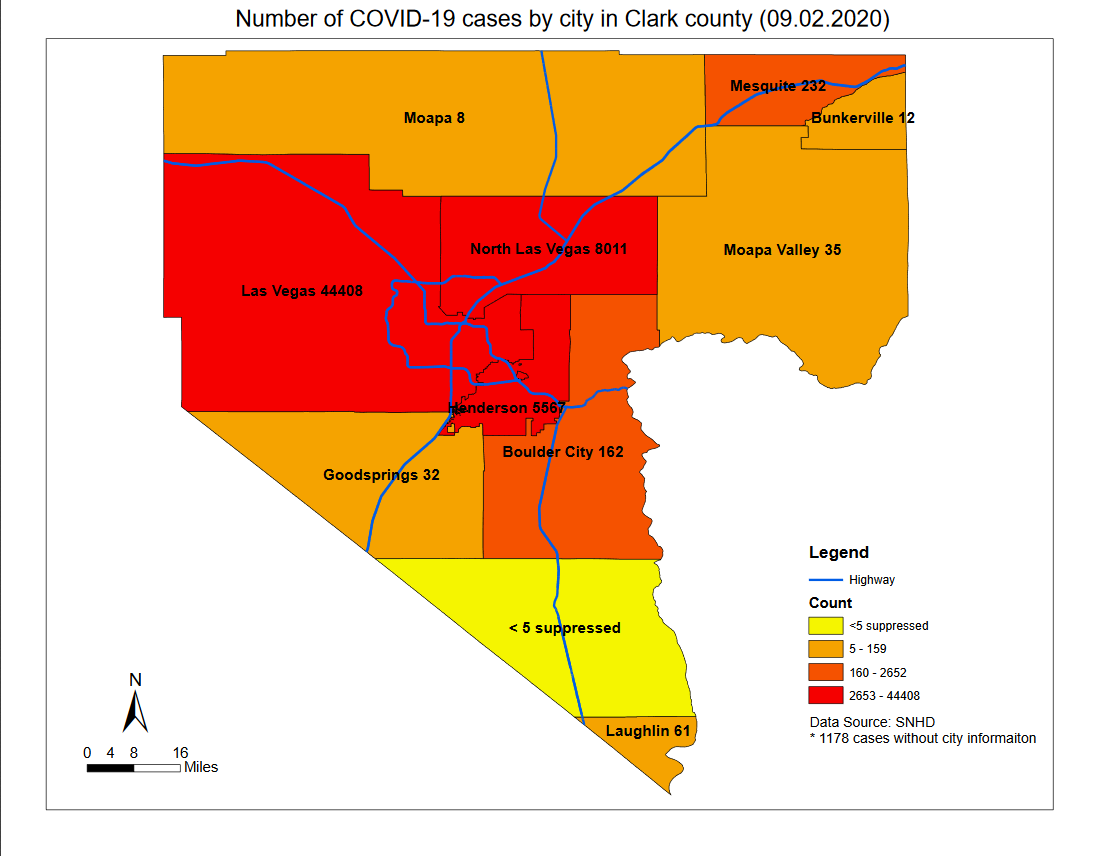
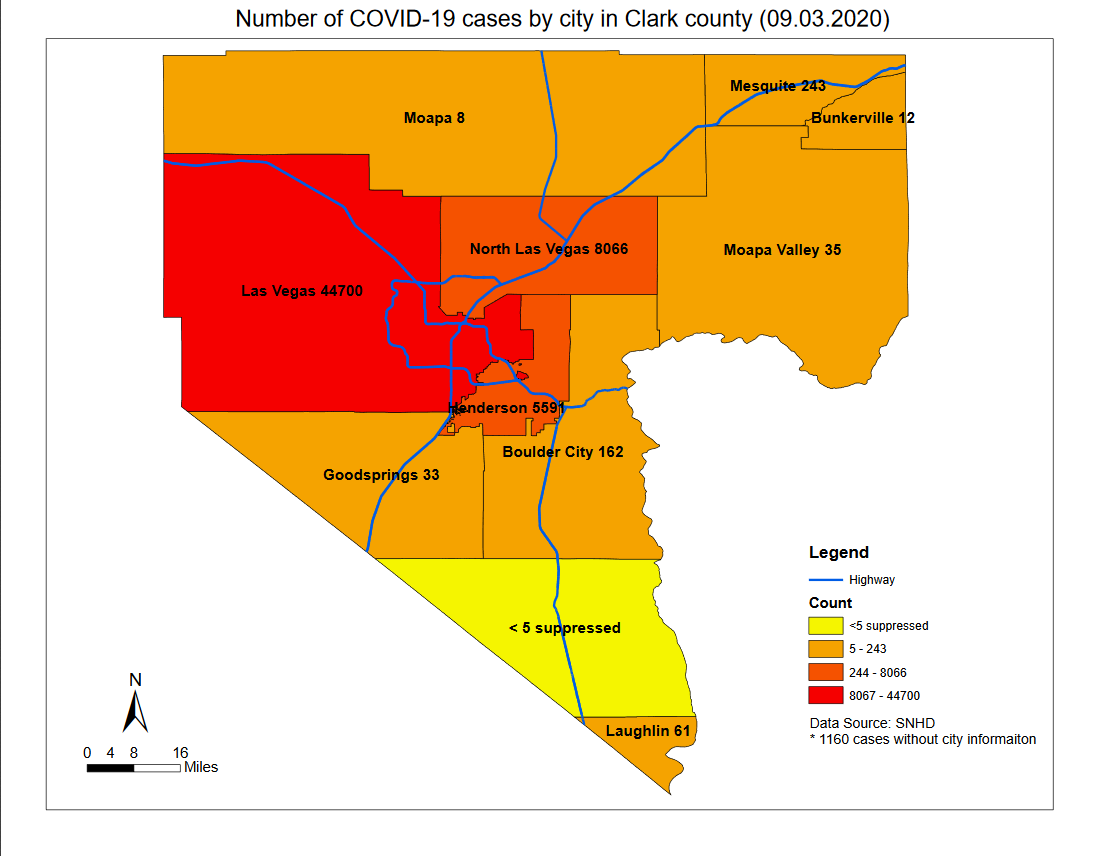
Day 184

diff --git a/src/pages/clarkcounty.js b/src/pages/clarkcounty.js
@@ -199,6 +199,7 @@ class ClarkPage extends Component {
 				'8/31/20',
 				'9/01/20',
 				'9/02/20',
+				'9/03/20',
 			],
 			datasets: [
 				{
@@ -388,6 +389,7 @@ class ClarkPage extends Component {
 						59716,
 						59857,
 						60144,
+						60514,
 					],
 				},
 			],
@@ -578,6 +580,7 @@ class ClarkPage extends Component {
 				'8/31/20',
 				'9/01/20',
 				'9/02/20',
+				'9/03/20',
 			],
 			datasets: [
 				{
@@ -767,6 +770,7 @@ class ClarkPage extends Component {
 						296,
 						141,
 						287,
+						370,
 					],
 				},
 			],
@@ -937,6 +941,7 @@ class ClarkPage extends Component {
 				'8/31/20',
 				'9/01/20',
 				'9/02/20',
+				'9/03/20',
 			],
 			datasets: [
 				{
@@ -1106,6 +1111,7 @@ class ClarkPage extends Component {
 						4865,
 						4978,
 						5078,
+						5143,
 					],
 				},
 			],
@@ -1275,6 +1281,7 @@ class ClarkPage extends Component {
 				'8/31/20',
 				'9/01/20',
 				'9/02/20',
+				'9/03/20',
 			],
 			datasets: [
 				{
@@ -1444,6 +1451,7 @@ class ClarkPage extends Component {
 						118,
 						113,
 						100,
+						65,
 					],
 				},
 			],
@@ -1634,6 +1642,7 @@ class ClarkPage extends Component {
 				'8/31/20',
 				'9/01/20',
 				'9/02/20',
+				'9/03/20',
 			],
 			datasets: [
 				{
@@ -1822,6 +1831,7 @@ class ClarkPage extends Component {
 						1134,
 						1157,
 						1181,
+						1190,
 					],
 					backgroundColor: 'maroon',
 				},
@@ -2001,6 +2011,7 @@ class ClarkPage extends Component {
 				'8/31/20',
 				'9/01/20',
 				'9/02/20',
+				'9/03/20',
 			],
 			datasets: [
 				{
@@ -2178,6 +2189,7 @@ class ClarkPage extends Component {
 						8,
 						23,
 						24,
+						9,
 					],
 				},
 			],
@@ -2368,6 +2380,7 @@ class ClarkPage extends Component {
 				'8/31/20',
 				'9/01/20',
 				'9/02/20',
+				'9/03/20',
 			],
 			datasets: [
 				{
@@ -2556,6 +2569,7 @@ class ClarkPage extends Component {
 						12.0,
 						11.6,
 						10.7,
+						10.3,
 						null,
 						null,
 						null,
@@ -2634,6 +2648,7 @@ class ClarkPage extends Component {
 						null,
 						null,
 						null,
+						6.9,
 						6.9,
 						6.9,
 						6.9,
@@ -2944,6 +2959,7 @@ class ClarkPage extends Component {
 						3.9,
 						3.9,
 						3.9,
+						3.9,
 					],
 				},
 			],
@@ -2954,7 +2970,7 @@ class ClarkPage extends Component {
 			datasets: [
 				{
 					label: 'Age of Cases',
-					data: [1213, 4603, 7744, 28932, 11630, 6006],
+					data: [1221, 4640, 7792, 29115, 11686, 6044],
 					backgroundColor: [
 						'rgb(54, 162, 235)', //blue
 						'rgb(255, 99, 132)', //salmon
@@ -2972,7 +2988,7 @@ class ClarkPage extends Component {
 			datasets: [
 				{
 					label: 'Sex',
-					data: [30742, 29003, 399],
+					data: [30922, 29194, 395],
 					backgroundColor: [
 						'rgb(255, 99, 132)',
 						'rgb(54, 162, 235)',
@@ -3014,8 +3030,8 @@ class ClarkPage extends Component {
 											</div>
 										</div>
 										<div className='card-value pt-4'>
-											<h1>60,144</h1>
-											<h2 className='is_salmon'>+ 287</h2>
+											<h1>60,514</h1>
+											<h2 className='is_salmon'>+ 370</h2>
 										</div>
 									</div>
 								</div>
@@ -3027,8 +3043,8 @@ class ClarkPage extends Component {
 											</div>
 										</div>
 										<div className='card-value pt-4'>
-											<h1>5,078</h1>
-											<h2 className='is_salmon'>+ 100</h2>
+											<h1>5,143</h1>
+											<h2 className='is_salmon'>+ 65</h2>
 										</div>
 									</div>
 								</div>
@@ -3040,8 +3056,8 @@ class ClarkPage extends Component {
 											</div>
 										</div>
 										<div className='card-value pt-4'>
-											<h1>91.2%</h1>
-											<h2 className='is_salmon'>+ 0.3%</h2>
+											<h1>91.4%</h1>
+											<h2 className='is_salmon'>+ 0.2%</h2>
 										</div>
 									</div>
 								</div>
@@ -3053,8 +3069,8 @@ class ClarkPage extends Component {
 											</div>
 										</div>
 										<div className='card-value pt-4'>
-											<h1>1,181</h1>
-											<h2 className='is_salmon'>+ 24</h2>
+											<h1>1,190</h1>
+											<h2 className='is_salmon'>+ 9</h2>
 										</div>
 									</div>
 								</div>

diff --git a/src/pages/nevada.js b/src/pages/nevada.js
@@ -194,6 +194,7 @@ class NevadaPage extends Component {
 				'8/31/20',
 				'9/01/20',
 				'9/02/20',
+				'9/03/20',
 			],
 			datasets: [
 				{
@@ -382,6 +383,7 @@ class NevadaPage extends Component {
 						69633,
 						69872,
 						70223,
+						70712,
 					],
 					fill: false, // Don't fill area under the line
 					backgroundColor: '#933A16', // Line color
@@ -573,6 +575,7 @@ class NevadaPage extends Component {
 				'8/31/20',
 				'9/01/20',
 				'9/02/20',
+				'9/03/20',
 			],
 			datasets: [
 				{
@@ -762,6 +765,7 @@ class NevadaPage extends Component {
 						405,
 						239,
 						351,
+						489,
 					],
 					fill: false, // Don't fill area under the line
 					backgroundColor: '#933A16', // Bar color
@@ -953,6 +957,7 @@ class NevadaPage extends Component {
 				'8/31/20',
 				'9/01/20',
 				'9/02/20',
+				'9/03/20',
 			],
 			datasets: [
 				{
@@ -1126,21 +1131,22 @@ class NevadaPage extends Component {
 						1193,
 						1208,
 						1220,
-						1229,
-						1243,
-						1255,
-						1272,
-						1278,
-						1294,
-						1305,
-						1316,
-						1326,
-						1333,
-						1340,
-						1346,
-						1353,
-						1355,
-						1358,
+						1230,
+						1244,
+						1256,
+						1274,
+						1281,
+						1297,
+						1308,
+						1320,
+						1330,
+						1337,
+						1344,
+						1351,
+						1361,
+						1364,
+						1371,
+						1372,
 					],
 					backgroundColor: 'maroon',
 				},
@@ -1320,6 +1326,7 @@ class NevadaPage extends Component {
 				'8/31/20',
 				'9/01/20',
 				'9/02/20',
+				'9/03/20',
 			],
 			datasets: [
 				{
@@ -1482,21 +1489,22 @@ class NevadaPage extends Component {
 						12,
 						15,
 						12,
-						9,
+						10,
 						14,
 						12,
-						17,
-						6,
+						18,
+						7,
 						16,
 						11,
-						11,
+						12,
 						10,
 						7,
 						7,
-						6,
 						7,
-						2,
+						10,
 						3,
+						7,
+						1,
 					],
 				},
 			],
@@ -1667,6 +1675,7 @@ class NevadaPage extends Component {
 				'8/31/20',
 				'9/01/20',
 				'9/02/20',
+				'9/03/20',
 			],
 			datasets: [
 				{
@@ -1831,6 +1840,7 @@ class NevadaPage extends Component {
 						10.6,
 						10.5,
 						10.6,
+						10.5,
 						10.5,
 						10.5,
 						10.5,
@@ -2006,8 +2016,10 @@ class NevadaPage extends Component {
 						10.8,
 						10.5,
 						9.9,
-						9.8,
+						9.6,
+						9.5,
 						9.2,
+
 						null,
 					],
 				},
@@ -2064,6 +2076,7 @@ class NevadaPage extends Component {
 						null,
 						null,
 						null,
+						10.4,
 						10.4,
 						10.4,
 						10.4,
@@ -2353,6 +2366,7 @@ class NevadaPage extends Component {
 						6.0,
 						6.0,
 						6.0,
+						6.0,
 					],
 				},
 			],
@@ -2388,8 +2402,8 @@ class NevadaPage extends Component {
 										</div>
 									</div>
 									<div className='card-value pt-4'>
-										<h1>604,692</h1>
-										<h2 className='is_salmon'>+ 2,952</h2>
+										<h1>608,181</h1>
+										<h2 className='is_salmon'>+ 3,489</h2>
 									</div>
 								</div>
 							</div>
@@ -2401,8 +2415,8 @@ class NevadaPage extends Component {
 										</div>
 									</div>
 									<div className='card-value pt-4'>
-										<h1>535,045</h1>
-										<h2 className='is_salmon'>+ 2,609</h2>
+										<h1>538,103</h1>
+										<h2 className='is_salmon'>+ 3,058</h2>
 									</div>
 								</div>
 							</div>
@@ -2414,8 +2428,8 @@ class NevadaPage extends Component {
 										</div>
 									</div>
 									<div className='card-value pt-4'>
-										<h1>70,223</h1>
-										<h2 className='is_salmon'>+ 351</h2>
+										<h1>70,712</h1>
+										<h2 className='is_salmon'>+ 489</h2>
 									</div>
 								</div>
 							</div>
@@ -2427,8 +2441,8 @@ class NevadaPage extends Component {
 										</div>
 									</div>
 									<div className='card-value pt-4'>
-										<h1>1,358</h1>
-										<h2 className='is_salmon'>+ 27</h2>
+										<h1>1,372</h1>
+										<h2 className='is_salmon'>+ 12</h2>
 									</div>
 								</div>
 							</div>
